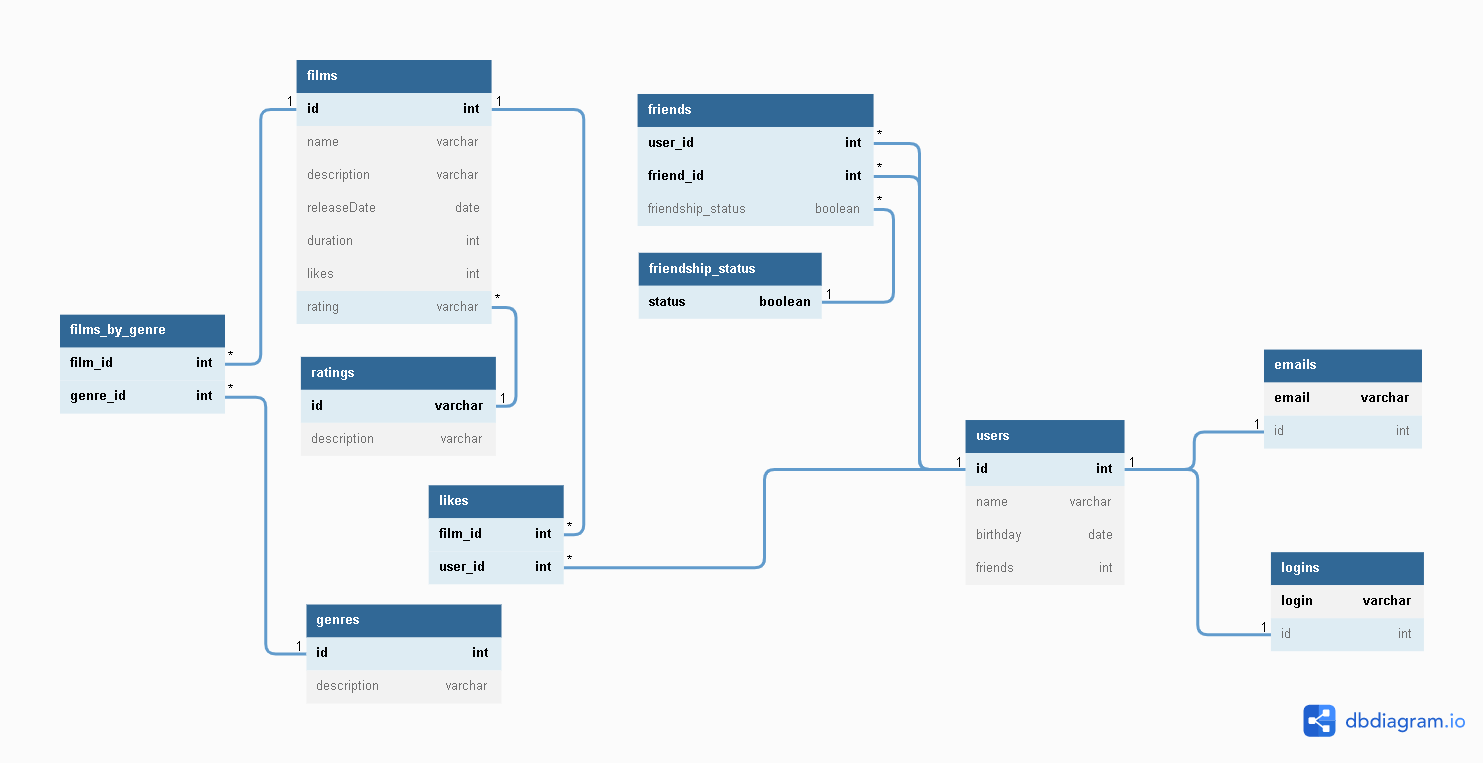
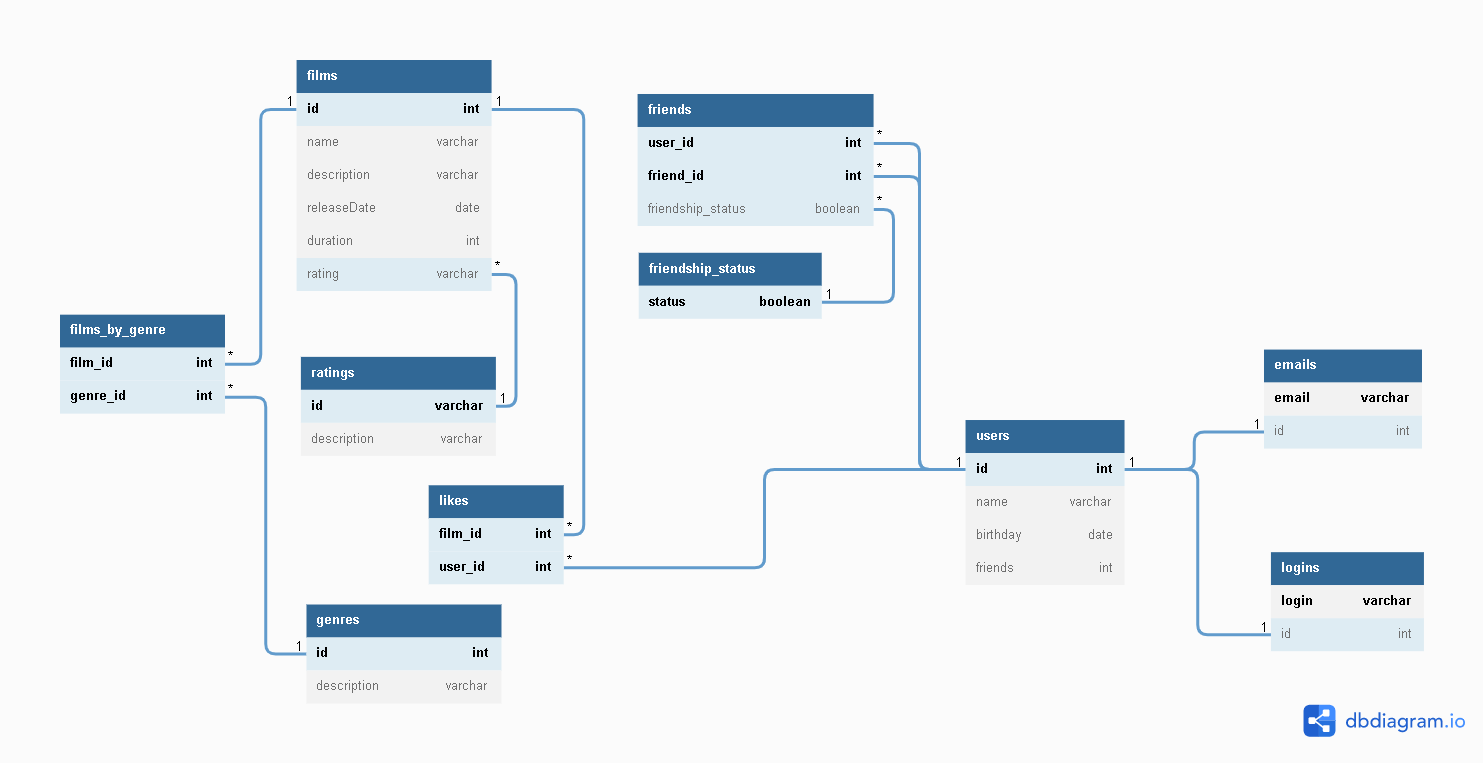
ТЗ 10 для проверки

Changed region(s): [[0.1861, 0.3316, 0.3412, 0.422]]

diff --git a/README.md b/README.md
@@ -1,22 +1,44 @@
 # java-filmorate
 Template repository for Filmorate project.
 
-## Это репозиторий проекта "Финансовое приложение"
-#### Было сложно, но мы справились
-
-![This is an image](java-filmorate.png)
+# Это репозиторий проекта "Filmorate"
 
 Наше приложение **умеет**:
-1. Считать расходы.
-2. Распределять расходы по категориям.
-3. Давать финансовые советы.
+1. Хранить пользователей и их друзей
+2. Хранить фильмы и их рейтинги
 
-Приложение написано на Java. Пример кода:
-```java
-public class Practicum {
-    public static void main(String[] args) {
-    }
-}
+Приложение написано на Java.
+
+## Диаграмма базы данных (БД)
+![This is an image](java-filmorate.png)
+
+**Запросы к БД на языке SQL**
+1. получение списка фильмов
+```SQL
+SELECT films.name
+FROM films
 ```
-------
-О том, как научиться создавать такие приложения, можно узнать в [Яндекс-Практикуме](https://practicum.yandex.ru/java-developer/ "Тут учат Java!")
+2. узнать дату рождения пользователя c id = 3
+```SQL
+SELECT users.birthday
+FROM users
+WHERE users.id = 3
+```
+3. узнать кол-во лайков фильма с id = 3
+```SQL
+SELECT COUNT(film_id)
+FROM likes
+WHERE film_id = 3
+```
+4. узнать количество друзей пользователя с id = 3
+```SQL
+SELECT COUNT(user_id)
+FROM friends
+WHERE user_id = 3 AND friendship_status = TRUE
+```
+5. узнать добавил ли пользователь с id = 10 в друзья пользователя с id = 3
+```SQL
+SELECT friendship_status
+FROM friends
+WHERE user_id = 10 AND friend_id = 3
+```
